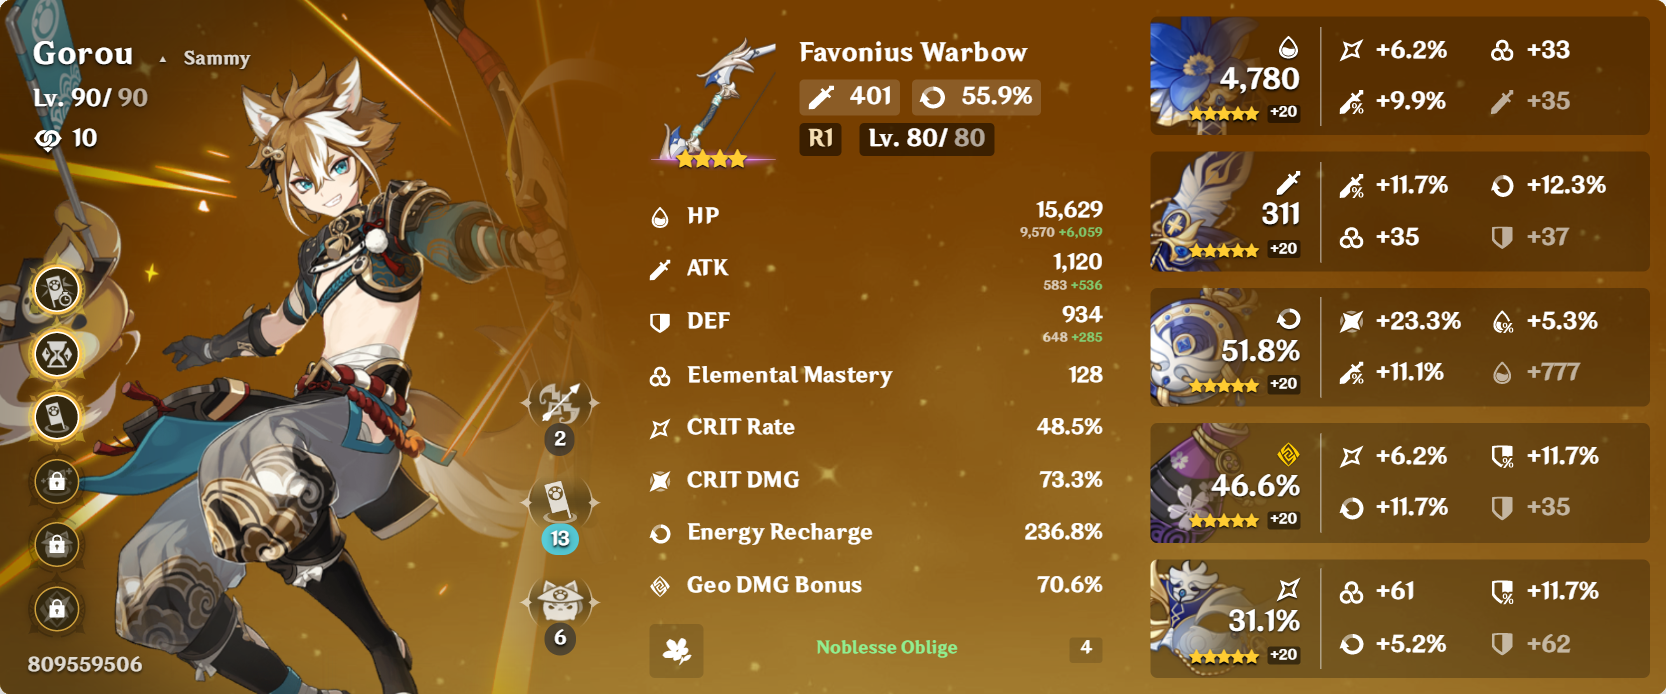
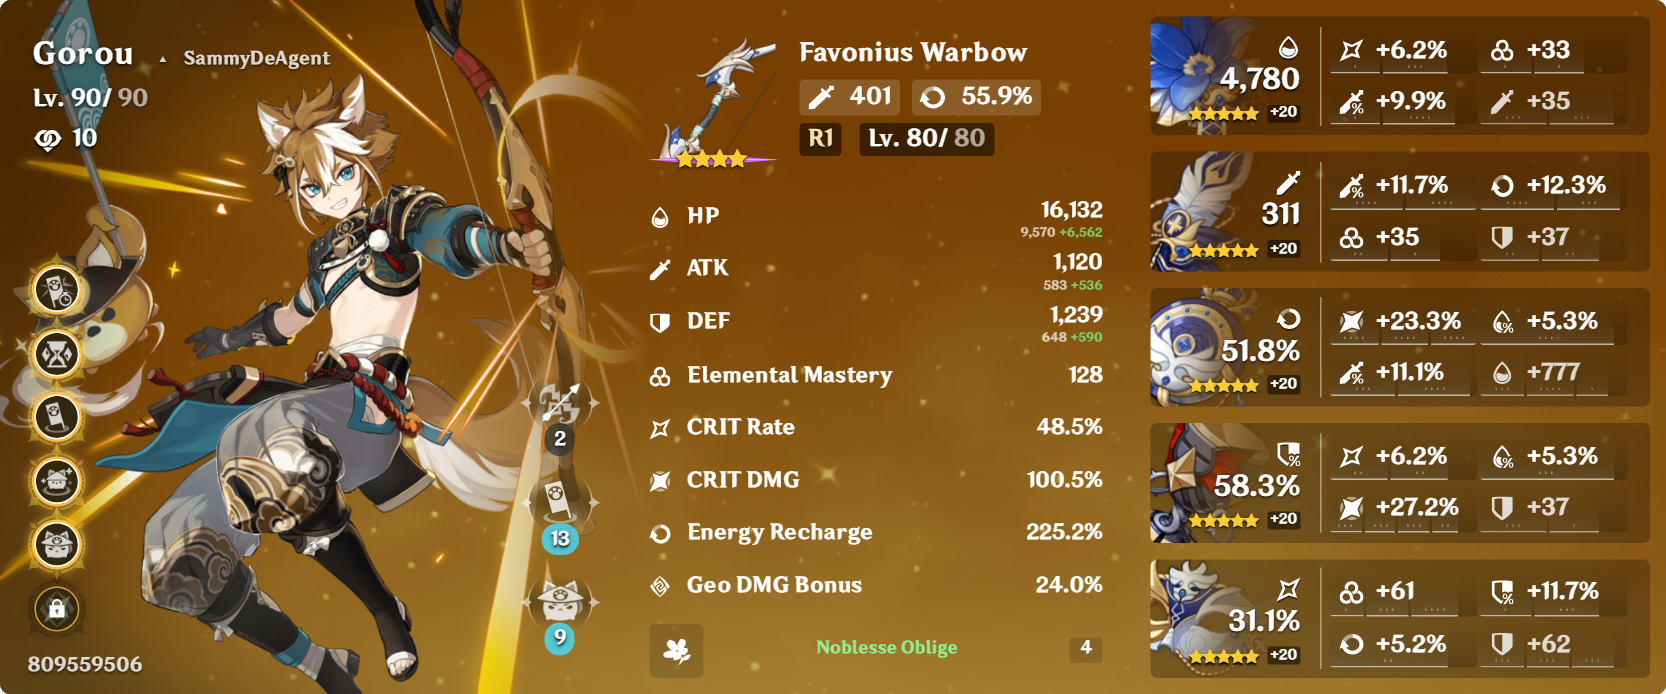
Updates

diff --git a/README.md b/README.md
@@ -36,7 +36,7 @@ Gacha Log Export Tool - [Link Here](https://github.com/biuuu/genshin-wish-export
 ![Pyro DPS Diluc](/builds/diluc.png "Pyro DPS Diluc")
 ![Anemo Support/Buffer Faruzan](/builds/faruzan.png "Anemo Support/Buffer Faruzan")
 ![Aggravate Sub DPS Fischl](/builds/fischl.png "Aggravate Sub DPS Fischl")
-![Geo Support/Buffer Gorou](/builds/gorou.png "Geo Support/Buffer Gorou")
+![Geo Support/Buffer/Healer Gorou](/builds/gorou.png "Geo Support/Buffer/Healer Gorou")
 ![Geo DPS Itto](/builds/itto.png "Geo DPS Itto")
 ![Elemental Support Kazuha](/builds/kazuha.png "Elemental Support Kazuha")
 ![Dendro Driver/Shielder/Sub DPS Kirara](/builds/kirara.png "Dendro Driver/Shielder/Sub DPS Kirara")
@@ -77,6 +77,7 @@ Gacha Log Export Tool - [Link Here](https://github.com/biuuu/genshin-wish-export
 <ul>
   <li>Amber</li>
   <li>Beidou</li>
+  <li>Neuvillette</li>
   <li>Sayu</li>
   <li>Sucrose</li>
   <li>Traveler - Anemo</li>
